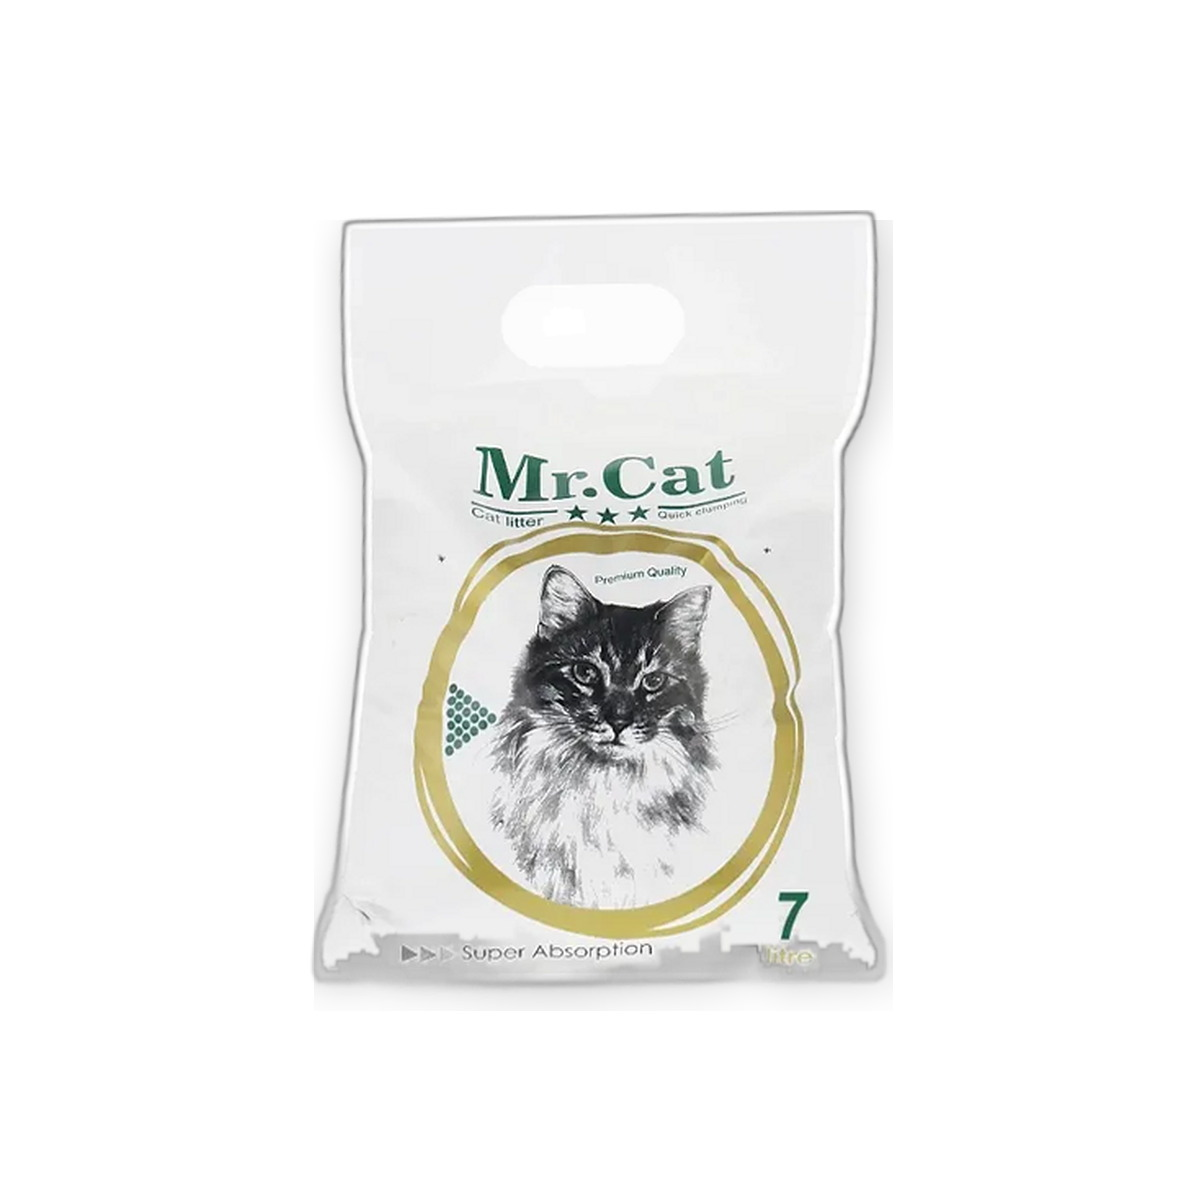
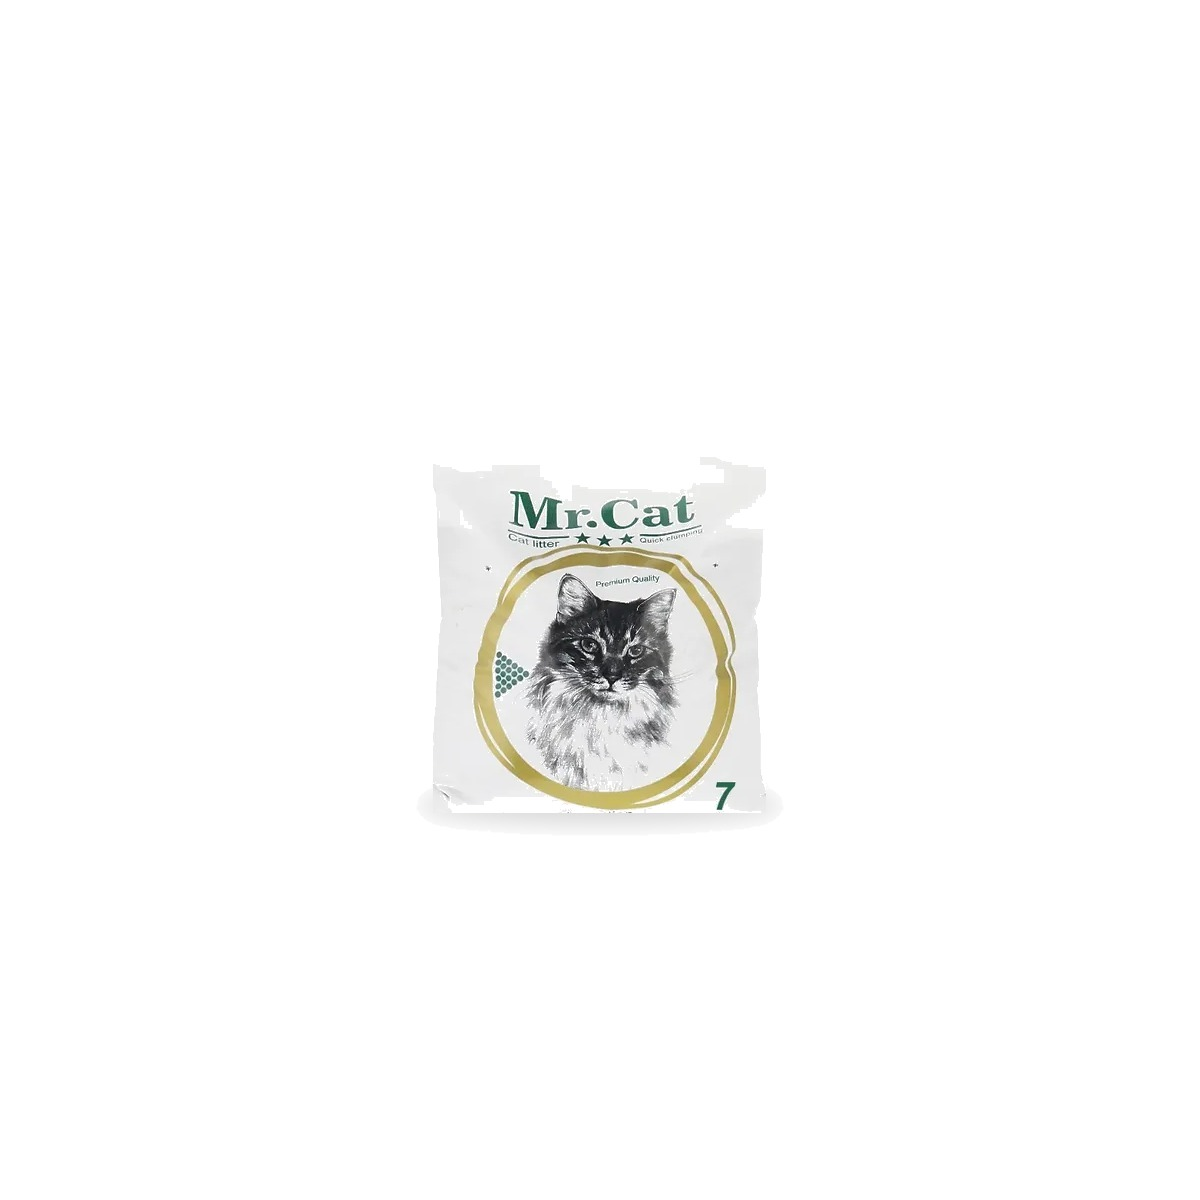
chore(shop): swap Mr.Cat kitten p255 packshot (Zivan source)

Changed region(s): [[0.2467, 0.185, 0.74, 0.8325], [0.3083, 0.1542, 0.74, 0.37]]

diff --git a/packages/api/src/data/shop-batch-multi-products.ts b/packages/api/src/data/shop-batch-multi-products.ts
@@ -8,7 +8,7 @@ import { withShopImagesParam } from './shop-product-images';
 import { HELD_SHOP_SLUGS, SHOP_BATCH_MULTI_SLUGS } from './shop-zero-margin-slugs';
 
 const P = '/pepito/uploads';
-export const SHOP_BATCH_MULTI_CACHE_BUST = "batch-multi-w1-v3";
+export const SHOP_BATCH_MULTI_CACHE_BUST = "batch-multi-w1-v4";
 
 function multiGallery(slug: string): { image: string; images: string[] } {
   const images = [

diff --git a/packages/web/src/data/shopBatchMultiProducts.ts b/packages/web/src/data/shopBatchMultiProducts.ts
@@ -1,7 +1,7 @@
 import type { ShopProduct } from './shopCatalog';
 
 const P = '/pepito/uploads';
-const V = "batch-multi-w1-v3";
+const V = "batch-multi-w1-v4";
 
 function gallery(slug: string): { image: string; images: string[] } {
   const images = [
